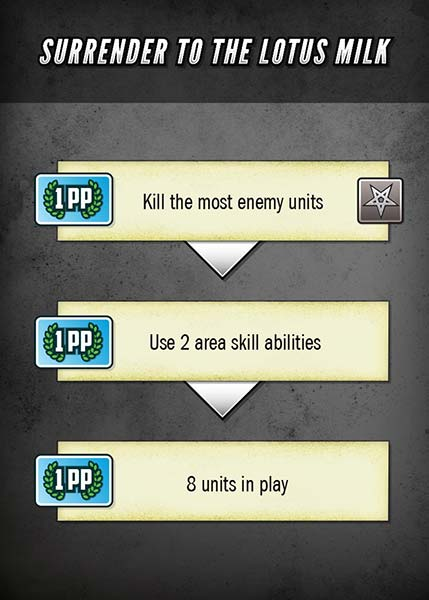
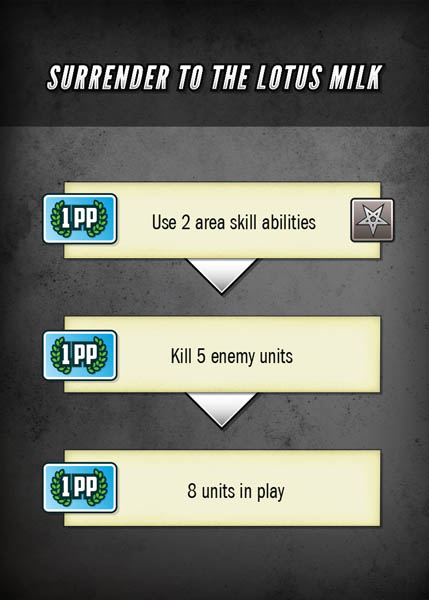
CULTISTS: Remove most kills plans

diff --git a/server/classes/factions/plans/cultistsPlans.js b/server/classes/factions/plans/cultistsPlans.js
@@ -76,13 +76,13 @@ let obj = [
         objectives : [
             {
                 requirements : [
-                    { test : 'killMost', args : [] },
+                    { test : 'useSkills', args : [2] },
                 ],
                 value : 1
             },
             {
                 requirements : [
-                    { test : 'useSkills', args : [2] },
+                    { test : 'killUnits', args : [5] },
                 ],
                 value : 1
             },
@@ -159,7 +159,7 @@ let obj = [
         objectives : [
             {
                 requirements : [
-                    { test : 'killMost', args : [] },
+                    { test : 'killUnits', args : [4] },
                     { test : 'tokensInAreas', args : [5] },
                 ],
                 value : 2
